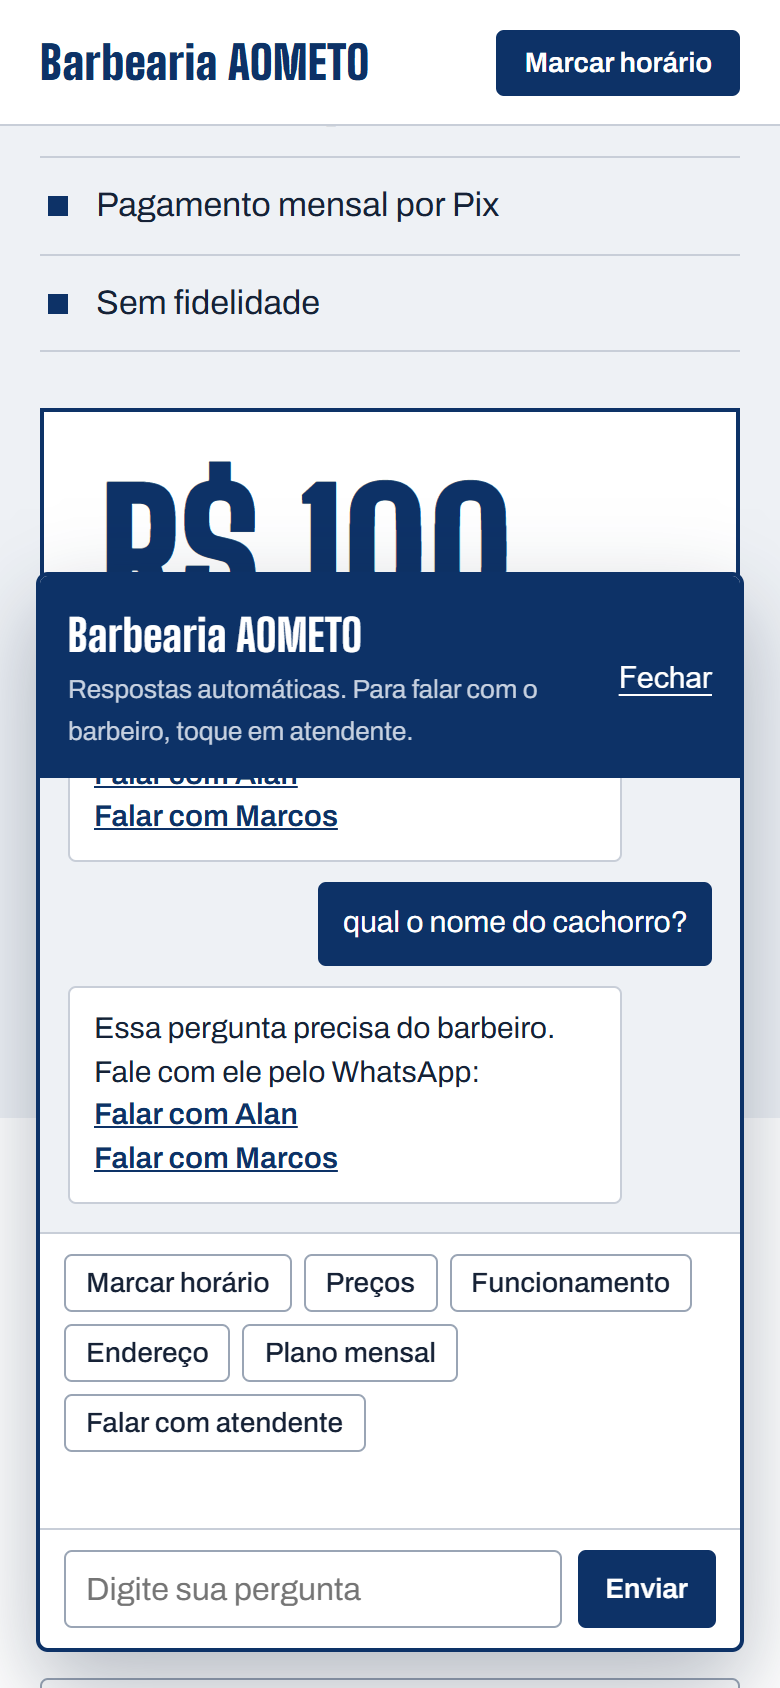
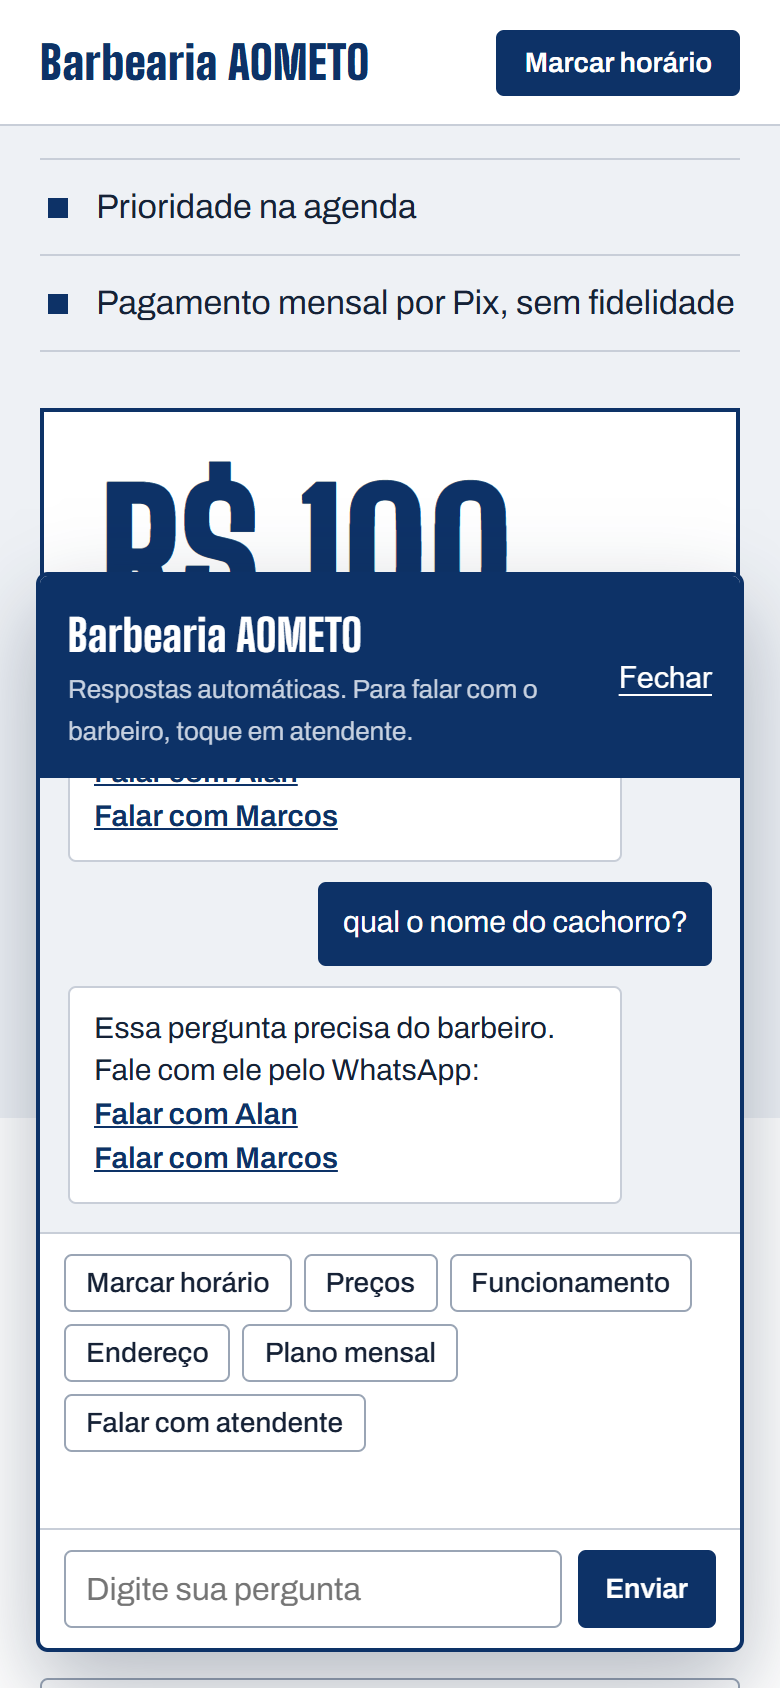
Preços, plano mensal ilimitado e textos finais
Claude-Session: https://claude.ai/code/session_01786Bh4xpB8iKPeZztnvgCn

diff --git a/index.html b/index.html
@@ -199,7 +199,7 @@ footer a{color:#fff}
   <div class="largura">
     <div>
       <h2 class="titulo-secao">Plano mensal</h2>
-      <p class="intro">Para quem corta com frequência. Você paga uma vez por mês e marca quando quiser.</p>
+      <p class="intro">Para quem gosta do cabelo sempre em dia. Você paga uma vez por mês e corta quantas vezes quiser.</p>
       <ul id="beneficios"></ul>
     </div>
     <div class="recibo">
@@ -272,24 +272,24 @@ footer a{color:#fff}
 <script>
 /* ============ O QUE A BARBEARIA MUDA FICA AQUI ============
    preco: número em reais, ou null para mostrar "consulte".
-   Itens com "a confirmar" ainda precisam ser conferidos com o Alan. */
+*/
 const CONFIG = {
   whatsapp: "5563981267002",
-  endereco: "Clube da AOMETO, ALCSO 34, Lote 14, Palmas-TO",   // endereço da sede (aometo.com.br); confirmar se a barbearia fica no clube
+  endereco: "Clube da AOMETO, ALCSO 34, Lote 14, Palmas-TO",   // sede e clube da AOMETO
   mapa: "https://www.google.com/maps/search/?api=1&query=AOMETO%20ALCSO%2034%20Lote%2014%20Palmas%20TO",
   equipe: ["Alan", "Marcos"],
   servicos: [
-    {nome: "Corte", desc: "Tesoura ou máquina, do social ao degradê, com acabamento na navalha.", preco: null, min: 40},
-    {nome: "Barba", desc: "Toalha quente, desenho e navalha.", preco: null, min: 30},
-    {nome: "Corte e barba", desc: "Os dois no mesmo horário.", preco: null, min: 60},
-    {nome: "Pezinho", desc: "Contorno e nuca entre um corte e outro.", preco: null, min: 15},
-    {nome: "Sobrancelha", desc: "Alinhamento na navalha.", preco: null, min: 10}
+    {nome: "Corte", desc: "Tesoura ou máquina, do social ao degradê, com acabamento na navalha.", preco: 30, min: 40},
+    {nome: "Barba", desc: "Toalha quente, desenho e navalha.", preco: 25, min: 30},
+    {nome: "Corte e barba", desc: "Os dois no mesmo horário.", preco: 50, min: 60},
+    {nome: "Pezinho", desc: "Contorno e nuca entre um corte e outro.", preco: 10, min: 15},
+    {nome: "Sobrancelha", desc: "Alinhamento na navalha.", preco: 10, min: 10}
   ],
-  plano: {valor: 100, beneficios: ["Cortes durante o mês, é só marcar", "Prioridade na agenda", "Pagamento mensal por Pix", "Sem fidelidade"],
-          obs: "Valor e regras do plano a confirmar com a barbearia."},
+  plano: {valor: 100, beneficios: ["Cortes de cabelo ilimitados no mês", "Vale só para o corte de cabelo; barba e outros serviços são à parte", "Prioridade na agenda", "Pagamento mensal por Pix, sem fidelidade"],
+          obs: "Corte de cabelo à vontade durante o mês. É só marcar o horário."},
   horarios: {Segunda: ["09:00","19:00"], "Terça": ["09:00","19:00"], Quarta: ["09:00","19:00"], Quinta: ["09:00","19:00"],
              Sexta: ["09:00","19:00"], "Sábado": ["08:00","17:00"], Domingo: null},
-  horarioObs: "Horários a confirmar. Na dúvida, chame no WhatsApp antes de ir."
+  horarioObs: "Em feriados o horário pode mudar. Na dúvida, chame no WhatsApp antes de ir."
 };
 /* ========================================================== */
 

diff --git a/README.md b/README.md
@@ -14,10 +14,8 @@ Página única em HTML, sem dependências: abrir `index.html` no navegador.
 Tudo fica no bloco `CONFIG`, no começo do `<script>` em `index.html`: WhatsApp, endereço, mapa, barbeiros,
 serviços e preços (`null` mostra "consulte"), plano e horários.
 
-## A confirmar antes de publicar
-- Número de WhatsApp dos pedidos
-- Barbeiros, preços, horários e regras do plano
-- Se a barbearia fica no clube (ALCSO 34, Lote 14)
+## No ar
+https://lgrsv.github.io/barbearia-aometo/
 
 ## Prévias
 `previa-celular.png`, `previa-computador.png`, `previa-chat.png`
